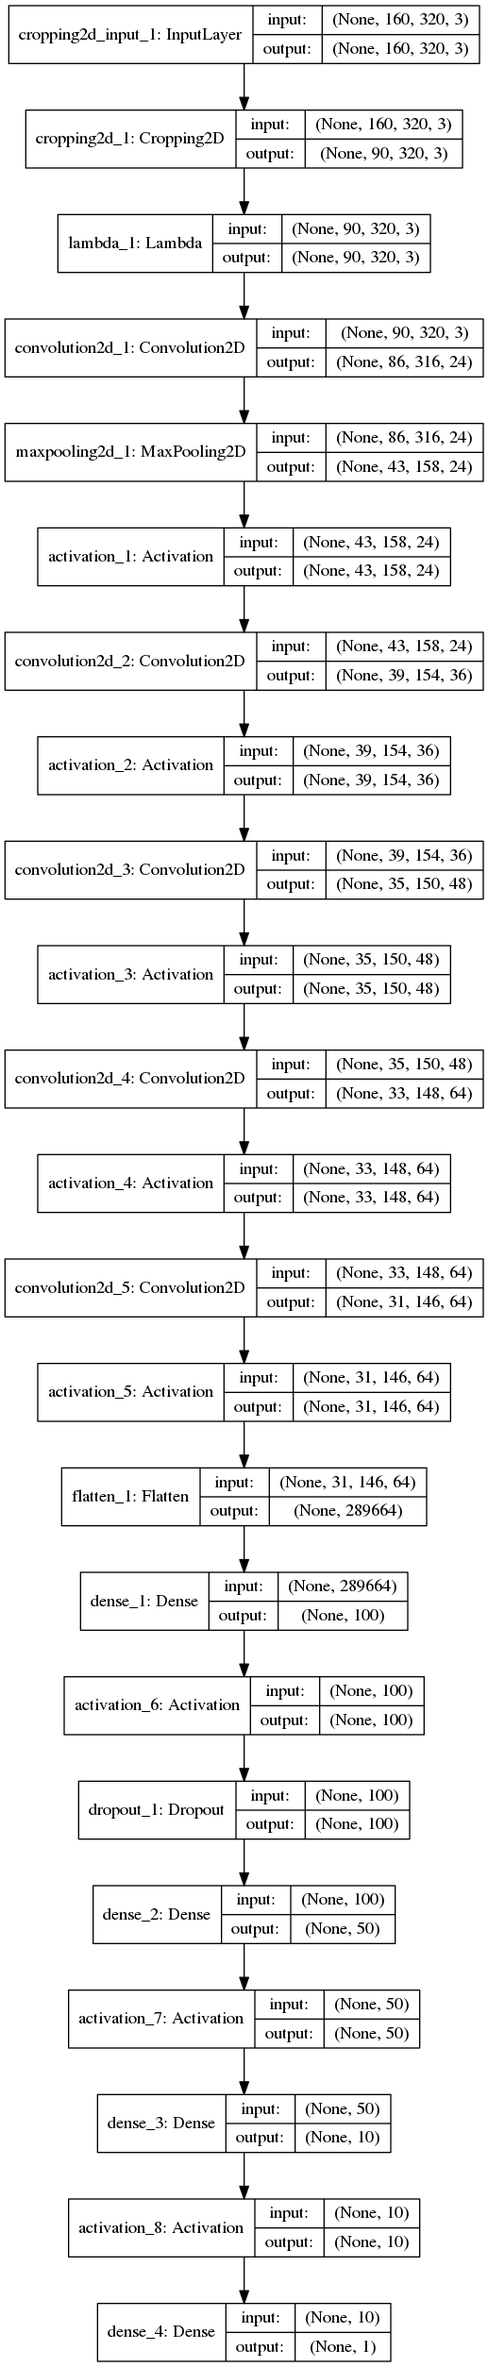
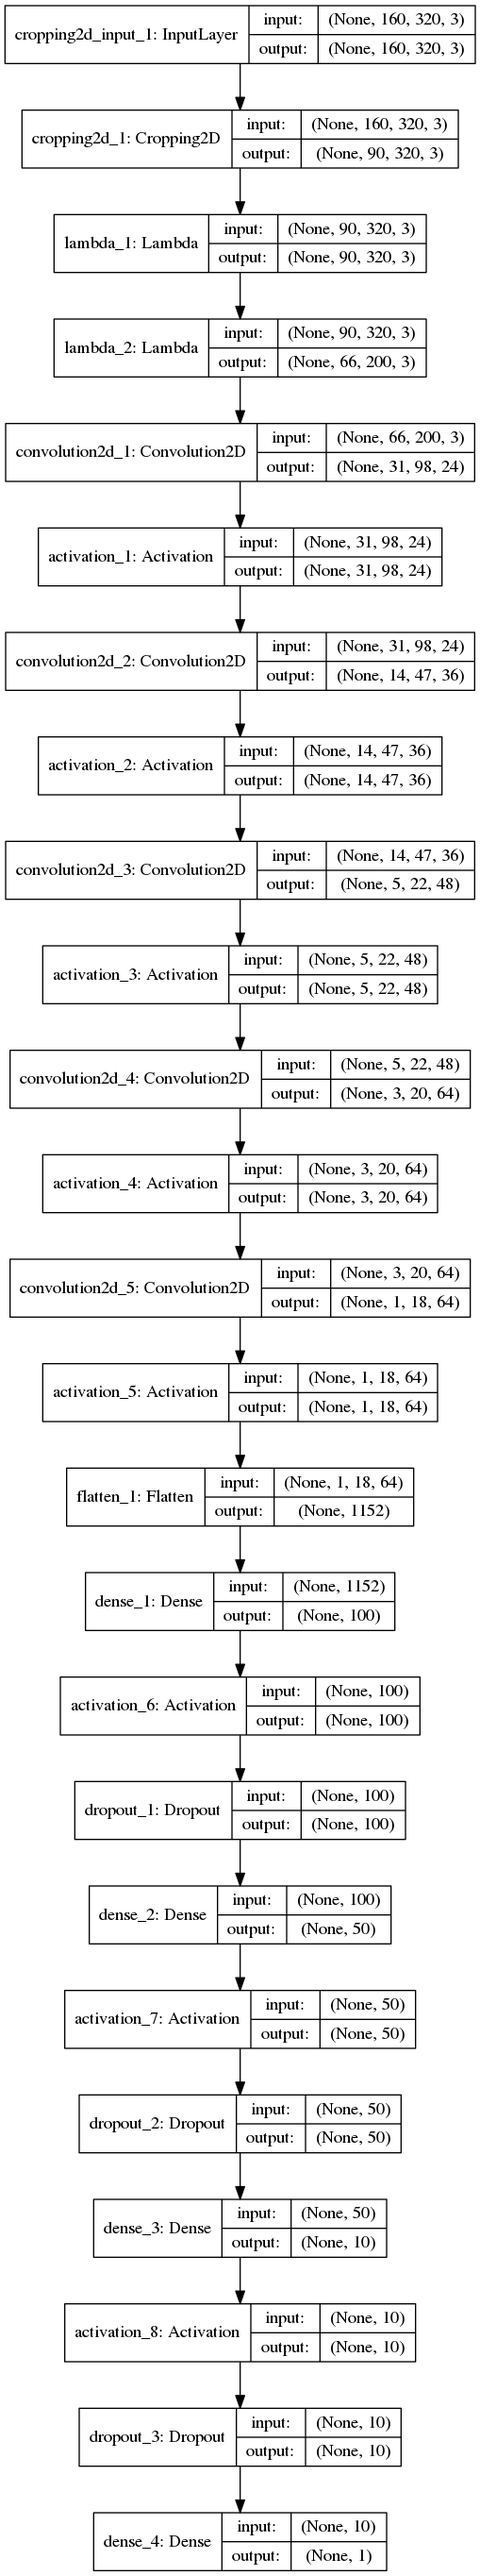
added 2x2 strides

Changed region(s): [[0.0, 0.0, 1.0, 1.0], [0.0, 0.4043, 0.0295, 0.4665], [0.1179, 0.8397, 0.1473, 0.8708]]

diff --git a/model.py b/model.py
@@ -8,6 +8,7 @@ from keras.callbacks import ModelCheckpoint
 import pickle
 from sklearn.model_selection import train_test_split
 from keras.utils.visualize_util import plot
+import tensorflow as tf
 
 # import data
 with open('./data/data.p', mode='rb') as f:
@@ -35,14 +36,15 @@ model = Sequential()
 model.add(Cropping2D(cropping=((50,20), (0,0)), input_shape=(160,320,3)))
 # normalize to -0.5:0.5
 model.add(Lambda(lambda x: (x / 255.0) - 0.5))
+model.add(Lambda(lambda image: tf.image.resize_images(image, (66,200))))
 # 5x5 conv
-model.add(Convolution2D(24, 5, 5, border_mode='valid'))
+model.add(Convolution2D(24, 5, 5, border_mode='valid', subsample = (2,2)))
 model.add(Activation('relu'))
 # 5x5 conv
-model.add(Convolution2D(36, 5, 5, border_mode='valid'))
+model.add(Convolution2D(36, 5, 5, border_mode='valid', subsample = (2,2)))
 model.add(Activation('relu'))
 # 5x5 conv
-model.add(Convolution2D(48, 5, 5, border_mode='valid'))
+model.add(Convolution2D(48, 5, 5, border_mode='valid', subsample = (2,2)))
 model.add(Activation('relu'))
 # 3x3 conv
 model.add(Convolution2D(64, 3, 3, border_mode='valid'))
@@ -63,12 +65,13 @@ model.add(Dropout(0.50))
 # fcn3
 model.add(Dense(10))
 model.add(Activation('relu'))
-model.add(Dropout(0.50))
 # output
 model.add(Dense(1))
 
 # compile
 model.compile('adam', 'mse')
+
+print(model.summary())
 
 plot(model, to_file='model.png', show_layer_names=True, show_shapes=True)
 

diff --git a/setup.py b/setup.py
@@ -15,8 +15,8 @@ with open(csv_file, 'r') as f:
     for row in reader:
         correction = 0.35  # this is a parameter to tune
         steering_center = float(row[3])
-        # if abs(steering_center) < 0.001:
-        #     continue
+        if abs(steering_center) < 0.001:
+            continue
         steering_left = steering_center + correction
         steering_right = steering_center - correction
 
@@ -28,7 +28,7 @@ with open(csv_file, 'r') as f:
 
         # add images and angles to data set
         car_images.extend([img_center, img_left, img_right])
-        steering_angles.extend([steering_center])
+        steering_angles.extend([steering_center, steering_left, steering_right])
 
 data = {'features': np.array(car_images), 'labels': np.array(steering_angles)}
 n, bins, patches = plt.hist(data['labels'], 100, facecolor = 'green')
